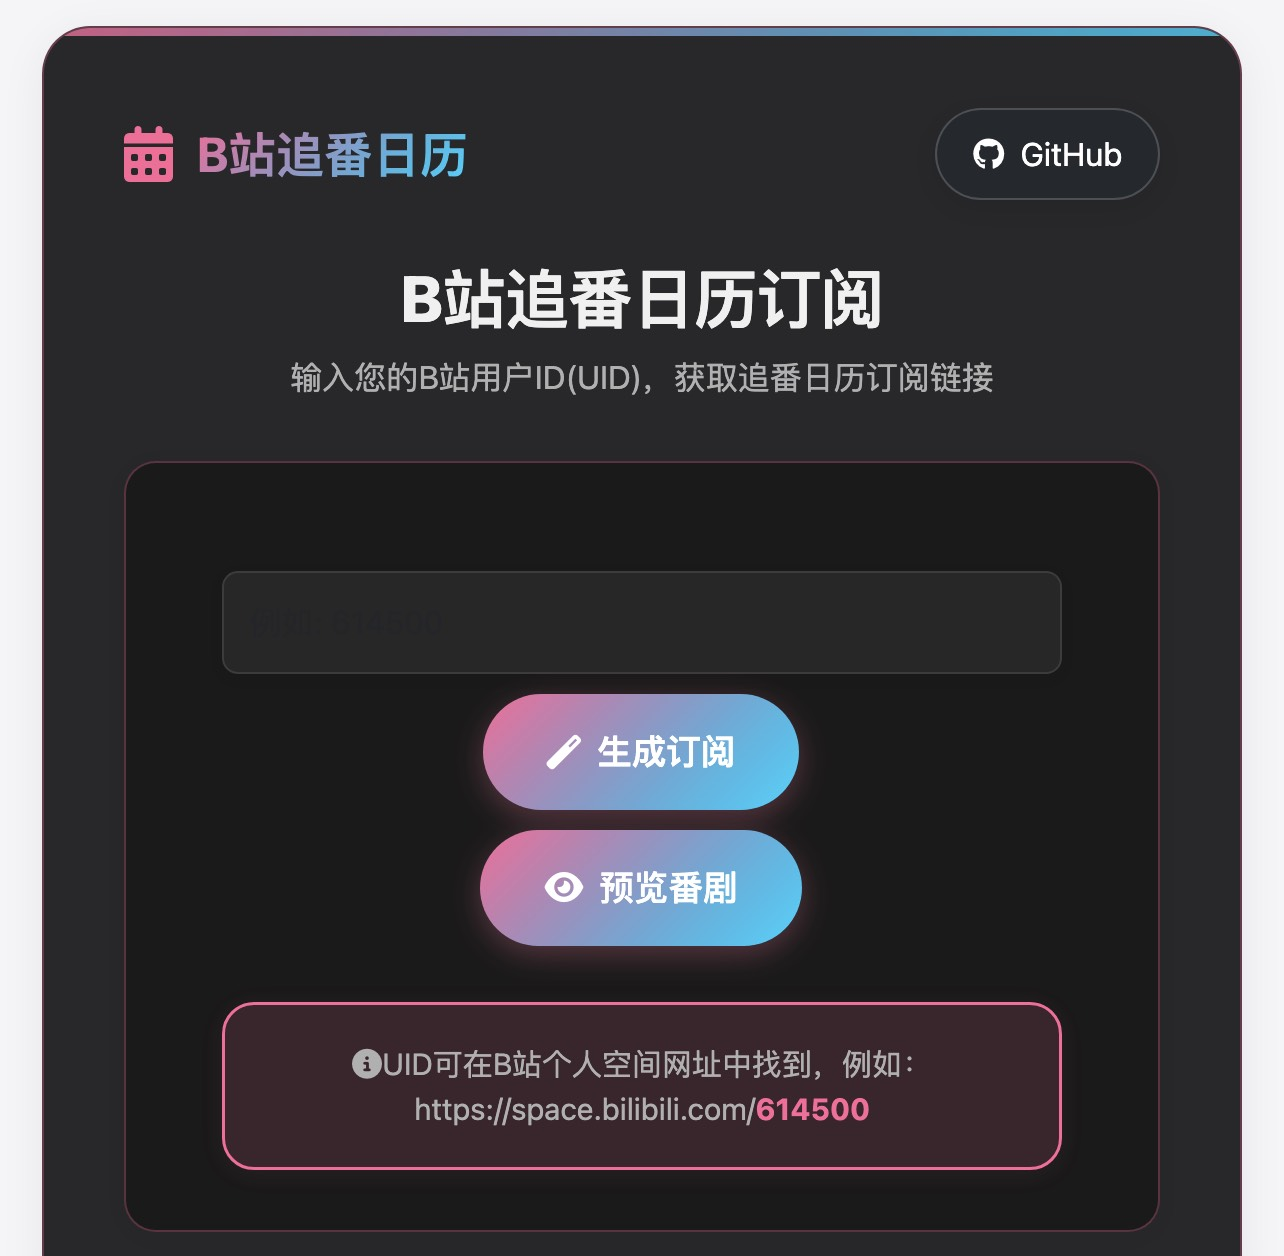
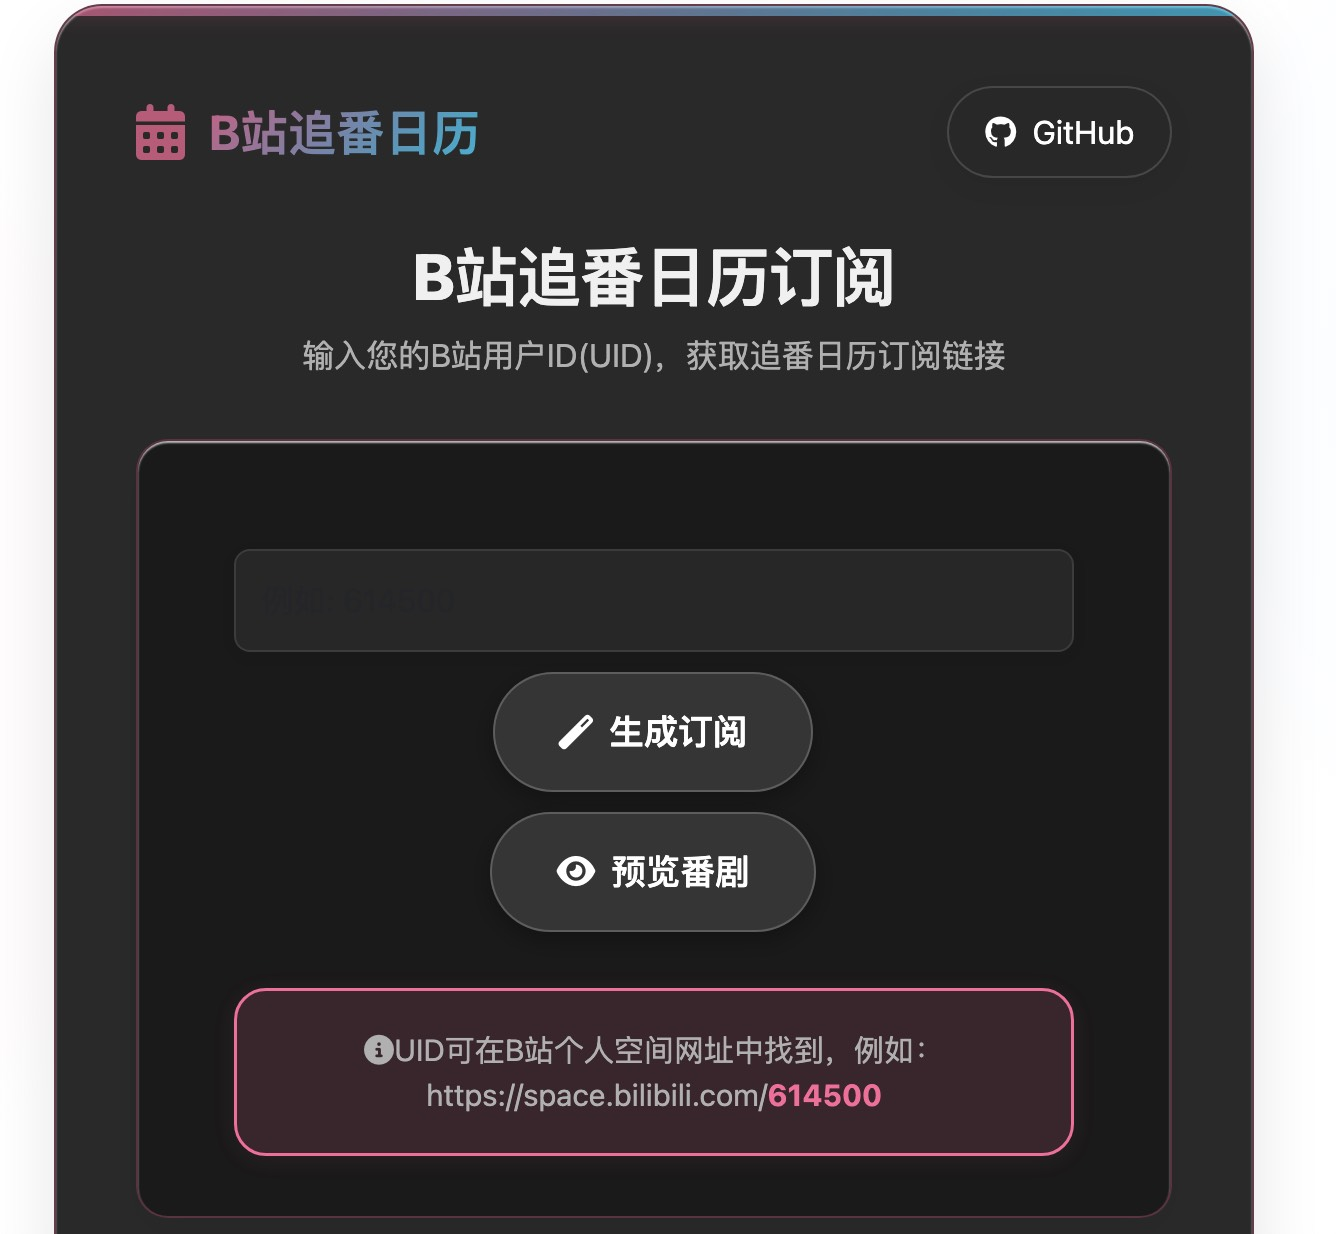
perf/styles: 优化网页性能并提升用户体验
- 移除渐变背景和复杂背景图案，改用固定背景色
- 简化主容器和输入区域的样式，移除不必要的特效
- 添加装饰图标和按钮装饰元素，增强视觉效果
- 优化表单控件样式，提高可用性
- 调整帮助文本样式，增加信息图标

diff --git a/public/styles.css b/public/styles.css
@@ -13,9 +13,6 @@
   --bili-gradient: linear-gradient(135deg, #fb7299 0%, #00a1d6 100%);
   --card-shadow: 0 8px 32px rgba(0, 0, 0, 0.1);
   --hover-shadow: 0 12px 40px rgba(0, 0, 0, 0.15);
-  --bg-gradient: linear-gradient(135deg, #fafafa 0%, #f0f0f7 100%);
-  --glass-effect: rgba(255, 255, 255, 0.9);
-  --glass-border: rgba(251, 114, 153, 0.15);
 }
 
 /* 基础重置 */
@@ -28,9 +25,8 @@
 /* 页面布局与背景 - 优化性能 */
 body {
   font-family: -apple-system, BlinkMacSystemFont, "Segoe UI", Roboto, "Helvetica Neue", Arial, sans-serif;
-  /* 渐变背景增强视觉体验 */
-  background: var(--bg-gradient);
-  background-attachment: fixed;
+  /* 使用固定背景色替代渐变，提升性能 */
+  background: #f5f5f7;
   min-height: 100vh;
   display: flex;
   align-items: center;
@@ -39,10 +35,6 @@ body {
   color: #212529;
   /* 优化滚动性能 */
   -webkit-overflow-scrolling: touch;
-  /* 添加一些背景图案提高视觉层次 */
-  background-image: 
-    radial-gradient(circle at 15% 50%, rgba(251, 114, 153, 0.03) 0%, transparent 25%),
-    radial-gradient(circle at 85% 30%, rgba(0, 161, 214, 0.03) 0%, transparent 25%);
 }
 
 /* 减少动画对性能的影响 */
@@ -77,19 +69,17 @@ html {
 
 /* 主容器 */
 .main-container {
-  background: var(--glass-effect);
-  backdrop-filter: blur(10px);
-  -webkit-backdrop-filter: blur(10px);
+  background: #ffffff;
   border-radius: 24px;
   padding: 40px;
-  box-shadow: 0 15px 35px rgba(0, 0, 0, 0.1), 
-              inset 0 1px 1px rgba(255, 255, 255, 0.6);
+  box-shadow: 0 4px 24px rgba(0, 0, 0, 0.06);
   max-width: 600px;
   width: 100%;
   text-align: center;
-  border: 1px solid var(--glass-border);
+  border: 1px solid rgba(251, 114, 153, 0.1);
   position: relative;
   overflow: hidden;
+  /* 移除backdrop-filter以提升性能 */
 }
 
 .main-container::before {
@@ -98,12 +88,10 @@ html {
   top: 0;
   left: 0;
   right: 0;
-  height: 5px;
+  height: 4px;
   background: var(--bili-gradient);
   /* 使用transform代替直接定位，优化重绘 */
   transform: translateZ(0);
-  opacity: 0.9;
-  box-shadow: 0 0 10px rgba(251, 114, 153, 0.3);
 }
 
 /* 头部 */
@@ -162,15 +150,12 @@ html {
 
 /* 输入区域 */
 .input-section {
-  background: rgba(255, 255, 255, 0.7);
-  backdrop-filter: blur(8px);
-  -webkit-backdrop-filter: blur(8px);
+  background: #ffffff;
   border-radius: 16px;
   padding: 30px;
   margin-bottom: 30px;
   border: 1px solid rgba(251, 114, 153, 0.2);
-  box-shadow: 0 8px 20px rgba(0, 0, 0, 0.05), 
-              inset 0 1px 1px rgba(255, 255, 255, 0.7);
+  box-shadow: 0 2px 12px rgba(0, 0, 0, 0.04);
   transition: border-color 0.3s ease, box-shadow 0.3s ease;
 }
 
@@ -187,6 +172,28 @@ html {
   margin-top: 1.5rem !important;
   width: 100% !important;
   gap: 18px;
+  position: relative;
+}
+
+/* 添加装饰图标 */
+.input-group::before {
+  content: "🔍";
+  position: absolute;
+  top: 12px;
+  left: 20px;
+  font-size: 16px;
+  color: #ccc;
+  z-index: 1;
+}
+
+.input-group::after {
+  content: "🎬";
+  position: absolute;
+  top: 100%;
+  right: 30px;
+  font-size: 18px;
+  color: rgba(0, 161, 214, 0.3);
+  transform: translateY(-50%);
 }
 
 .form-control {
@@ -197,7 +204,7 @@ html {
 .form-control {
   /* 参考重构前的简单样式，避免Bootstrap冲突 */
   flex-grow: 1 !important; /* 使用flex-grow: 1，参考重构前样式 */
-  padding: 0.8rem !important; /* 使用重构前的padding值 */
+  padding: 0.8rem 2.4rem !important; /* 修改padding以适应图标 */
   border: 1px solid #ddd !important; /* 使用重构前的border样式 */
   border-radius: 8px !important; /* 使用重构前的border-radius */
   font-size: 1rem !important; /* 使用重构前的font-size */
@@ -294,6 +301,29 @@ html {
   justify-content: center;
 }
 
+/* 添加按钮装饰元素 */
+.input-section {
+  position: relative;
+}
+
+.input-section::before {
+  content: "📅";
+  position: absolute;
+  bottom: 10px;
+  left: 20px;
+  font-size: 20px;
+  opacity: 0.5;
+}
+
+.input-section::after {
+  content: "✨";
+  position: absolute;
+  bottom: 10px;
+  right: 20px;
+  font-size: 20px;
+  opacity: 0.5;
+}
+
 .input-section .btn-primary,
 .input-section .btn-outline {
   flex: 0 0 auto;
@@ -324,6 +354,19 @@ html {
   border: 1.5px solid #fb7299;
   max-width: 420px;
   box-shadow: 0 2px 12px rgba(251, 114, 153, 0.08);
+  position: relative;
+}
+
+.help-text::before {
+  content: "ℹ";
+  position: absolute;
+  top: -10px;
+  left: 20px;
+  background: white;
+  border-radius: 50%;
+  padding: 2px 8px;
+  font-size: 14px;
+  border: 1px solid rgba(251, 114, 153, 0.2);
 }
 
 .help-text strong {
